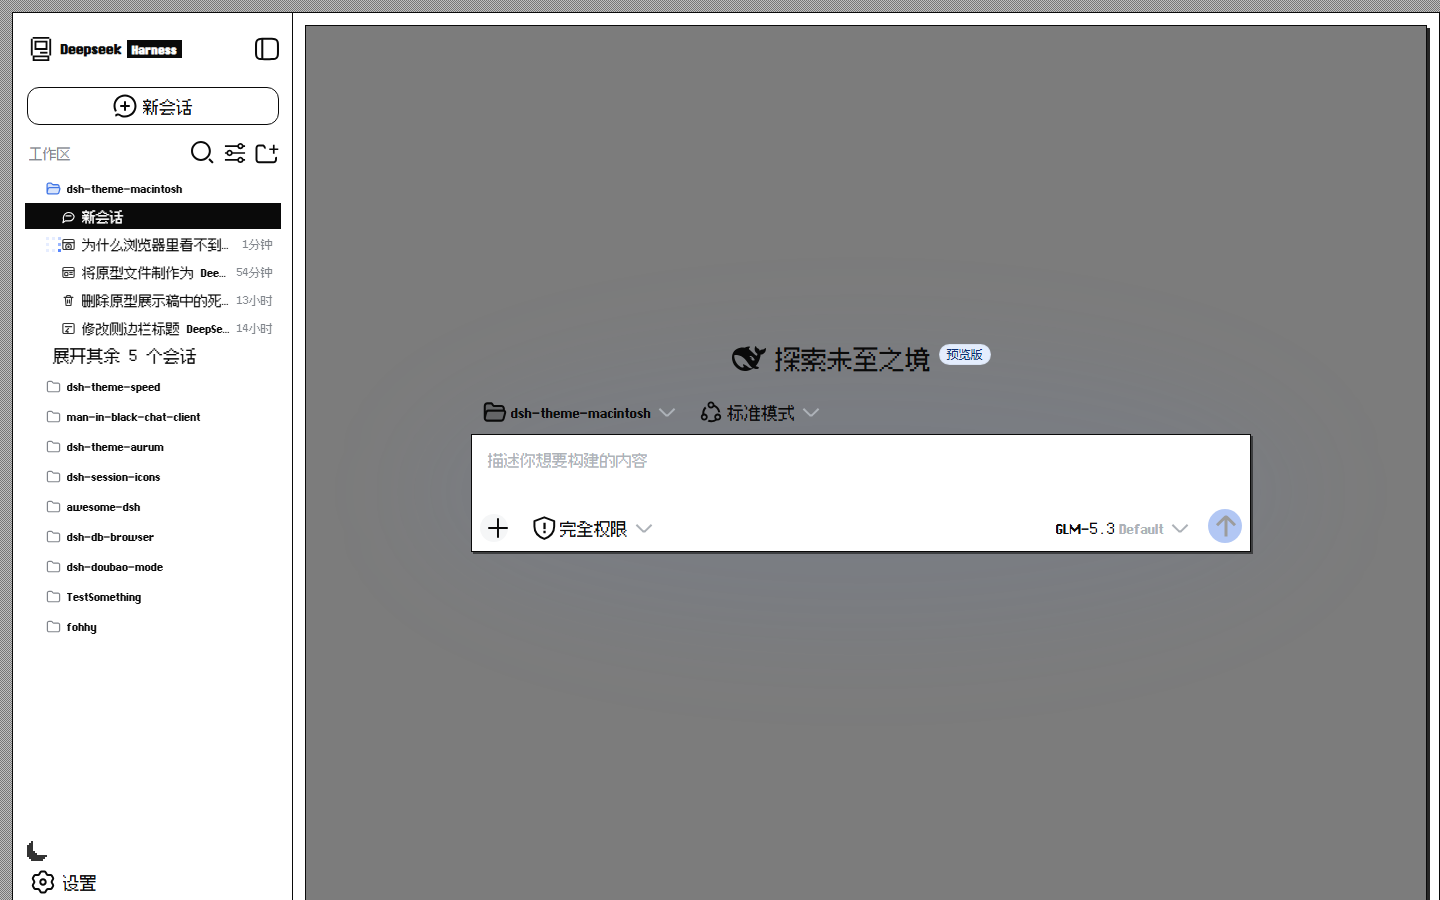
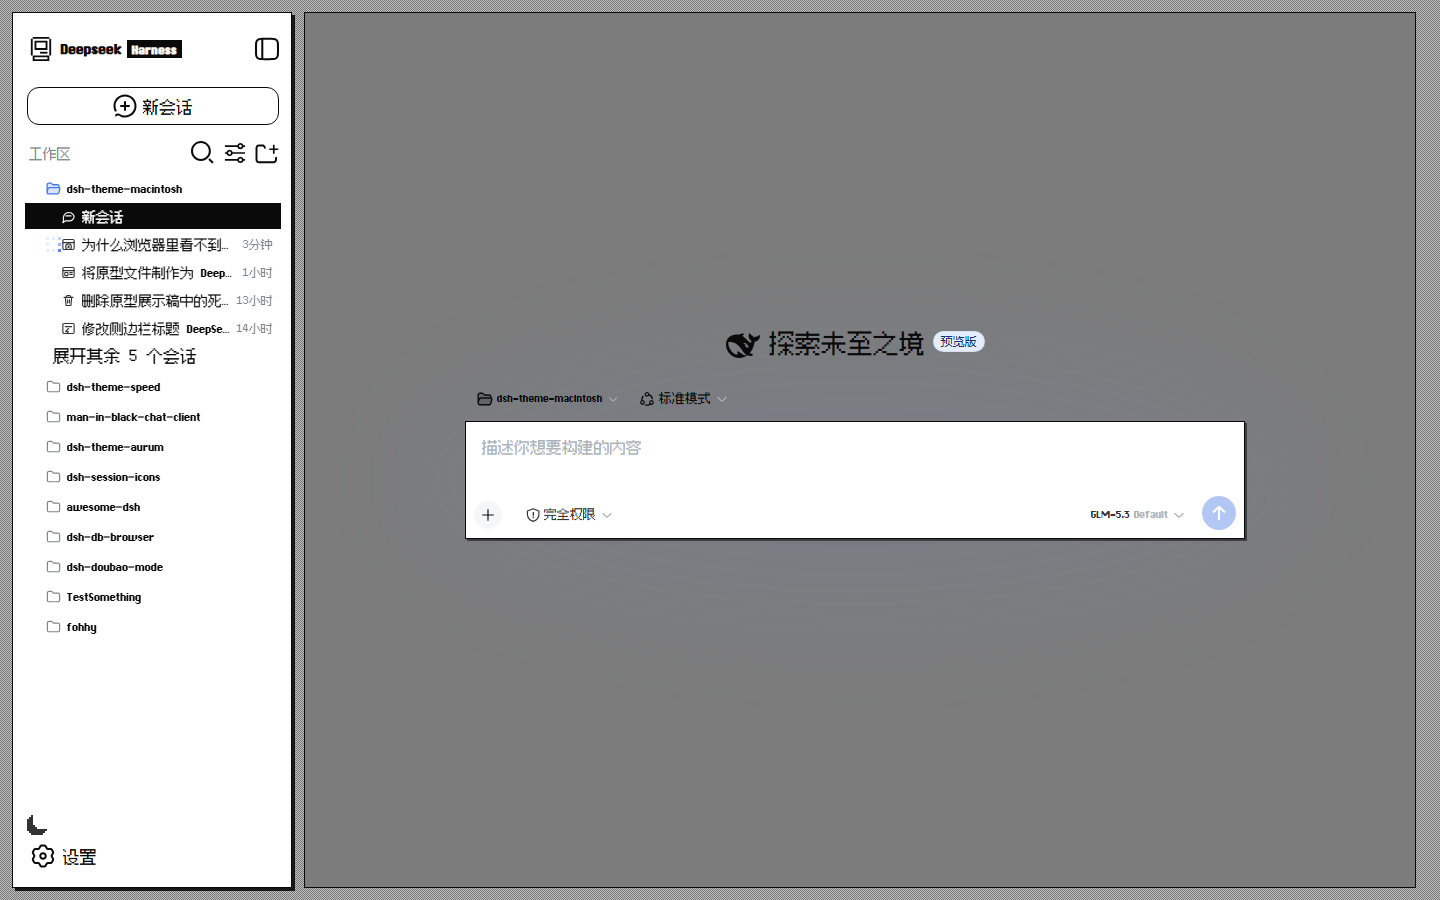
fix(mcx-精修2): 侧栏成窗修正——MC_MAP 三选择器越过 display:contents 包装层命中真 frame grid 与 sidebarCol（原选择器把窗样式打在整个 frame 上导致左半顶天立地）；桌面缝隙改容器化（frame padding 12px + 列 gap 12px，原列 margin 方案在固定 100vh 轨道下溢出屏幕）；主窗会话头 pinstripe 化作装饰 titlebar（条纹面+顶缘 accent 线，浅色反转；close/zoom 交互方块留三期）；client.js 与 src/ 同步

Changed region(s): [[0.0, 0.0, 1.0, 1.0], [0.3125, 0.4356, 0.875, 0.6222], [0.5, 0.3422, 0.6875, 0.4356]]

diff --git a/client.js b/client.js
@@ -447,8 +447,10 @@ const McSprite = {
 //      会话行 div role="treeitem" + aria-selected（选中=true）
 //  - dsh-client-ui-sidebar/lib/client.js —— SidebarRoot：logoRow/brand 全哈希 class、aria-label 走 i18n（不可用）
 const MC_MAP = {
-  // appRoot = 三列 frame（AppFrame 根 div）。无 data-* → 结构位（#root 唯一子div）
-  appRoot: '#root > div', /* DRIFT-RISK: structural */
+  // appRoot = 三列 frame grid（AppFrame 根 div）。注意：#root 与 frame 之间隔着一层
+  // display:contents 的透传包装 div（padding 打在它上面无效）——真 grid 是 #root > div > div。
+  // 无 data-* → 结构位。display:contents 包装经 probe-dom 实测（2026-08-30）。
+  appRoot: '#root > div > div', /* DRIFT-RISK: structural */
   // mainColumn = 会话根（header + 滚动口 + composer 都在其内，正好是"主窗"区域）
   mainColumn: 'div[data-phase]',
   // sessionHeader = ConversationSessionHeader 的 <header>；无 data-* → 会话根内结构位
@@ -456,14 +458,14 @@ const MC_MAP = {
   scrollport: '[data-conversation-scroll]',
   composerCard: '[data-composer-card]',
   // —— 以下供 Task 7 侧栏使用（Task 7 已对部署包复核，出处行号如下） ——
-  // sidebar = 网格首列 sidebarCol。复核：dsh-client-ui-layout/lib/client.js L218-232 ——
-  //   AppFrame 根 div（frame，即 #root 唯一子 div）children[0] 恒为 sidebarCol div
-  //   （L226-232，无 data-*，class 为哈希 pI_x6G_sidebarCol）。结构位成立但随宿主改版漂移。
-  sidebar: '#root > div > div:first-child', /* DRIFT-RISK: structural */
+  // sidebar = 网格首列 sidebarCol。frame children 顺序：sidebarCol / centerCol / detailsCol /
+  //   overlayLayer / handle（后两者 absolute）。注意选择器要越过 display:contents 包装层。
+  //   复核：dsh-client-ui-layout/lib/client.js L218-232；probe-dom 实测（2026-08-30）。
+  sidebar: '#root > div > div > div:first-child', /* DRIFT-RISK: structural */
   // sidebarBrand = 侧栏列内首个 button。复核：dsh-client-ui-sidebar/lib/client.js L156-201 ——
   //   logoRow 首子 = 品牌 button（L158-181，仅 wide 形态渲染）；rail 收起时首个 button 变为
   //   折叠钮（L185-200）。aria-label 走 i18n（L161/188）不可依赖。样式覆写宽态命中品牌、窄态命中折叠钮，可接受。
-  sidebarBrand: '#root > div > div:first-child button', /* DRIFT-RISK: structural */
+  sidebarBrand: '#root > div > div > div:first-child button', /* DRIFT-RISK: structural */
   // sessionRow / sessionRowSelected。复核：dsh-client-ui-workspace/lib/client.js L718-721 ——
   //   SessionNodeItem 行 div role="treeitem" + aria-selected（selected 时 "true"），稳定语义锚点。
   sessionRow: 'div[role="treeitem"]',
@@ -476,15 +478,17 @@ const MC_MAP = {
 // 纪律：选择器字符串一律来自 map.js 的 MC_MAP（本文件只做插值）；无 :hover、无 transition。
 const McChrome = {
   css: [
-    // frame 底色让位：AppFrame 根自带实底 background(--dsw-alias-bg-base)，不清掉会盖住桌面噪点；
-    // 各列（sidebarCol/detailsCol/主窗）自有实底，不受影响
-    `${MC_MAP.appRoot}{background:transparent}`,
-    // 主列 = 会话窗（.win 语汇）：surface 底 + 1px 边 + 3px 硬投影。
-    // 桌面两大窗 = 直角（原型 .desk > .win{border-radius:0}）；margin 留出桌面缝隙（两侧窗浮在噪点桌面上）。
+    // frame 底色让位 + 桌面缝隙容器化：AppFrame 根自带实底 background（不清掉会盖住桌面噪点）。
+    // 缝隙做在 grid 容器上（padding 四周 12px + 列间 gap 12px）——官方 grid 行高固定 100vh，
+    // 给列加 margin 只会溢出屏幕（实测 bottom=914>900），容器 padding 才能真正收进视口。
+    `${MC_MAP.appRoot}{background:transparent;box-sizing:border-box;padding:12px;gap:12px}`,
+    // 主列 = 会话窗（.win 语汇）：surface 底 + 1px 边 + 3px 硬投影；桌面两大窗 = 直角（原型 .desk > .win）。
     // 刻意不收 overflow —— 宿主自管滚动（centerCol overflow:hidden + data-conversation-scroll）
-    `${MC_MAP.mainColumn}{background:var(--mc-surface);border:1px solid var(--mc-border);border-radius:0;box-shadow:var(--mc-shadow-panel);margin:12px}`,
-    // 会话头部条：surface-3 + 1px 底线（宿主 header::after 线已由 token 别名染成 --mc-border，视觉重叠成加重底线）
-    `${MC_MAP.sessionHeader}{background:var(--mc-surface-3);border-bottom:1px solid var(--mc-border)}`,
+    `${MC_MAP.mainColumn}{background:var(--mc-surface);border:1px solid var(--mc-border);border-radius:0;box-shadow:var(--mc-shadow-panel)}`,
+    // 会话头部条 = 装饰 titlebar（pinstripe 条纹面 + 顶缘 accent 高亮线，原型 §3 .titlebar 语汇；
+    // close/zoom 方块与交互属三期结构级，此处只做 CSS 染色）。浅色条纹加深、深色条纹提亮。
+    `${MC_MAP.sessionHeader}{background:repeating-linear-gradient(180deg,rgba(255,255,255,.10) 0 1px,transparent 1px 3px),var(--mc-surface-2);border-bottom:1px solid var(--mc-border);box-shadow:inset 0 1px 0 var(--mc-accent)}`,
+    `html[data-theme="light"] ${MC_MAP.sessionHeader}{background:repeating-linear-gradient(180deg,rgba(0,0,0,.20) 0 1px,transparent 1px 3px),var(--mc-surface-2)}`,
     // 滚动口：最小干预 —— 只给深一档底色（窗内"文档区"），滚动条走 tokens 已有的全局 15px 经典款
     `${MC_MAP.scrollport}{background:var(--mc-bg-deep)}`,
     // composer 卡：surface 底 + 1px 边 + 小一级硬投影（方角，.mc-field 语汇）
@@ -519,9 +523,9 @@ let mcThemeOrig = undefined;
 
 const McSidebar = {
   css: [
-    // 侧栏列 = Finder 窗（.win 语汇完整版）：rail-1 底 + 四边 1px 黑边 + 3px 硬投影 + 直角；
-    // margin 让窗浮在桌面噪点上（上/下/左各 12px，右边线由 border 提供）。整窗字体 --font-sb（§7.1）
-    `${MC_MAP.sidebar}{background:var(--mc-rail-1);border:1px solid var(--mc-border);border-radius:0;box-shadow:var(--mc-shadow-panel);margin:12px 0 12px 12px;font-family:var(--font-sb)}`,
+    // 侧栏列 = Finder 窗（.win 语汇完整版）：rail-1 底 + 四边 1px 黑边 + 3px 硬投影 + 直角。
+    // 桌面缝隙由容器 padding/gap 提供（见 chrome 段 appRoot 规则）。整窗字体 --font-sb（§7.1）
+    `${MC_MAP.sidebar}{background:var(--mc-rail-1);border:1px solid var(--mc-border);border-radius:0;box-shadow:var(--mc-shadow-panel);font-family:var(--font-sb)}`,
     // 品牌行：字号 17px（finder 图标 24px 经 sidebar.brand.mark 席位注入，见 slots）；
     // 名称经 sidebar.brand.name 席位注入 "Deepseek + Harness" 反色标签（原型 sb-head §4）
     `${MC_MAP.sidebarBrand}{font:400 17px/1 var(--font-sb);color:var(--mc-fg)}`,

diff --git a/src/chrome/chrome.js b/src/chrome/chrome.js
@@ -4,15 +4,17 @@
 // 纪律：选择器字符串一律来自 map.js 的 MC_MAP（本文件只做插值）；无 :hover、无 transition。
 const McChrome = {
   css: [
-    // frame 底色让位：AppFrame 根自带实底 background(--dsw-alias-bg-base)，不清掉会盖住桌面噪点；
-    // 各列（sidebarCol/detailsCol/主窗）自有实底，不受影响
-    `${MC_MAP.appRoot}{background:transparent}`,
-    // 主列 = 会话窗（.win 语汇）：surface 底 + 1px 边 + 3px 硬投影。
-    // 桌面两大窗 = 直角（原型 .desk > .win{border-radius:0}）；margin 留出桌面缝隙（两侧窗浮在噪点桌面上）。
+    // frame 底色让位 + 桌面缝隙容器化：AppFrame 根自带实底 background（不清掉会盖住桌面噪点）。
+    // 缝隙做在 grid 容器上（padding 四周 12px + 列间 gap 12px）——官方 grid 行高固定 100vh，
+    // 给列加 margin 只会溢出屏幕（实测 bottom=914>900），容器 padding 才能真正收进视口。
+    `${MC_MAP.appRoot}{background:transparent;box-sizing:border-box;padding:12px;gap:12px}`,
+    // 主列 = 会话窗（.win 语汇）：surface 底 + 1px 边 + 3px 硬投影；桌面两大窗 = 直角（原型 .desk > .win）。
     // 刻意不收 overflow —— 宿主自管滚动（centerCol overflow:hidden + data-conversation-scroll）
-    `${MC_MAP.mainColumn}{background:var(--mc-surface);border:1px solid var(--mc-border);border-radius:0;box-shadow:var(--mc-shadow-panel);margin:12px}`,
-    // 会话头部条：surface-3 + 1px 底线（宿主 header::after 线已由 token 别名染成 --mc-border，视觉重叠成加重底线）
-    `${MC_MAP.sessionHeader}{background:var(--mc-surface-3);border-bottom:1px solid var(--mc-border)}`,
+    `${MC_MAP.mainColumn}{background:var(--mc-surface);border:1px solid var(--mc-border);border-radius:0;box-shadow:var(--mc-shadow-panel)}`,
+    // 会话头部条 = 装饰 titlebar（pinstripe 条纹面 + 顶缘 accent 高亮线，原型 §3 .titlebar 语汇；
+    // close/zoom 方块与交互属三期结构级，此处只做 CSS 染色）。浅色条纹加深、深色条纹提亮。
+    `${MC_MAP.sessionHeader}{background:repeating-linear-gradient(180deg,rgba(255,255,255,.10) 0 1px,transparent 1px 3px),var(--mc-surface-2);border-bottom:1px solid var(--mc-border);box-shadow:inset 0 1px 0 var(--mc-accent)}`,
+    `html[data-theme="light"] ${MC_MAP.sessionHeader}{background:repeating-linear-gradient(180deg,rgba(0,0,0,.20) 0 1px,transparent 1px 3px),var(--mc-surface-2)}`,
     // 滚动口：最小干预 —— 只给深一档底色（窗内"文档区"），滚动条走 tokens 已有的全局 15px 经典款
     `${MC_MAP.scrollport}{background:var(--mc-bg-deep)}`,
     // composer 卡：surface 底 + 1px 边 + 小一级硬投影（方角，.mc-field 语汇）

diff --git a/src/chrome/map.js b/src/chrome/map.js
@@ -16,8 +16,10 @@
 //      会话行 div role="treeitem" + aria-selected（选中=true）
 //  - dsh-client-ui-sidebar/lib/client.js —— SidebarRoot：logoRow/brand 全哈希 class、aria-label 走 i18n（不可用）
 const MC_MAP = {
-  // appRoot = 三列 frame（AppFrame 根 div）。无 data-* → 结构位（#root 唯一子div）
-  appRoot: '#root > div', /* DRIFT-RISK: structural */
+  // appRoot = 三列 frame grid（AppFrame 根 div）。注意：#root 与 frame 之间隔着一层
+  // display:contents 的透传包装 div（padding 打在它上面无效）——真 grid 是 #root > div > div。
+  // 无 data-* → 结构位。display:contents 包装经 probe-dom 实测（2026-08-30）。
+  appRoot: '#root > div > div', /* DRIFT-RISK: structural */
   // mainColumn = 会话根（header + 滚动口 + composer 都在其内，正好是"主窗"区域）
   mainColumn: 'div[data-phase]',
   // sessionHeader = ConversationSessionHeader 的 <header>；无 data-* → 会话根内结构位
@@ -25,14 +27,14 @@ const MC_MAP = {
   scrollport: '[data-conversation-scroll]',
   composerCard: '[data-composer-card]',
   // —— 以下供 Task 7 侧栏使用（Task 7 已对部署包复核，出处行号如下） ——
-  // sidebar = 网格首列 sidebarCol。复核：dsh-client-ui-layout/lib/client.js L218-232 ——
-  //   AppFrame 根 div（frame，即 #root 唯一子 div）children[0] 恒为 sidebarCol div
-  //   （L226-232，无 data-*，class 为哈希 pI_x6G_sidebarCol）。结构位成立但随宿主改版漂移。
-  sidebar: '#root > div > div:first-child', /* DRIFT-RISK: structural */
+  // sidebar = 网格首列 sidebarCol。frame children 顺序：sidebarCol / centerCol / detailsCol /
+  //   overlayLayer / handle（后两者 absolute）。注意选择器要越过 display:contents 包装层。
+  //   复核：dsh-client-ui-layout/lib/client.js L218-232；probe-dom 实测（2026-08-30）。
+  sidebar: '#root > div > div > div:first-child', /* DRIFT-RISK: structural */
   // sidebarBrand = 侧栏列内首个 button。复核：dsh-client-ui-sidebar/lib/client.js L156-201 ——
   //   logoRow 首子 = 品牌 button（L158-181，仅 wide 形态渲染）；rail 收起时首个 button 变为
   //   折叠钮（L185-200）。aria-label 走 i18n（L161/188）不可依赖。样式覆写宽态命中品牌、窄态命中折叠钮，可接受。
-  sidebarBrand: '#root > div > div:first-child button', /* DRIFT-RISK: structural */
+  sidebarBrand: '#root > div > div > div:first-child button', /* DRIFT-RISK: structural */
   // sessionRow / sessionRowSelected。复核：dsh-client-ui-workspace/lib/client.js L718-721 ——
   //   SessionNodeItem 行 div role="treeitem" + aria-selected（selected 时 "true"），稳定语义锚点。
   sessionRow: 'div[role="treeitem"]',

diff --git a/src/chrome/sidebar.js b/src/chrome/sidebar.js
@@ -7,9 +7,9 @@ let mcThemeOrig = undefined;
 
 const McSidebar = {
   css: [
-    // 侧栏列 = Finder 窗（.win 语汇完整版）：rail-1 底 + 四边 1px 黑边 + 3px 硬投影 + 直角；
-    // margin 让窗浮在桌面噪点上（上/下/左各 12px，右边线由 border 提供）。整窗字体 --font-sb（§7.1）
-    `${MC_MAP.sidebar}{background:var(--mc-rail-1);border:1px solid var(--mc-border);border-radius:0;box-shadow:var(--mc-shadow-panel);margin:12px 0 12px 12px;font-family:var(--font-sb)}`,
+    // 侧栏列 = Finder 窗（.win 语汇完整版）：rail-1 底 + 四边 1px 黑边 + 3px 硬投影 + 直角。
+    // 桌面缝隙由容器 padding/gap 提供（见 chrome 段 appRoot 规则）。整窗字体 --font-sb（§7.1）
+    `${MC_MAP.sidebar}{background:var(--mc-rail-1);border:1px solid var(--mc-border);border-radius:0;box-shadow:var(--mc-shadow-panel);font-family:var(--font-sb)}`,
     // 品牌行：字号 17px（finder 图标 24px 经 sidebar.brand.mark 席位注入，见 slots）；
     // 名称经 sidebar.brand.name 席位注入 "Deepseek + Harness" 反色标签（原型 sb-head §4）
     `${MC_MAP.sidebarBrand}{font:400 17px/1 var(--font-sb);color:var(--mc-fg)}`,
